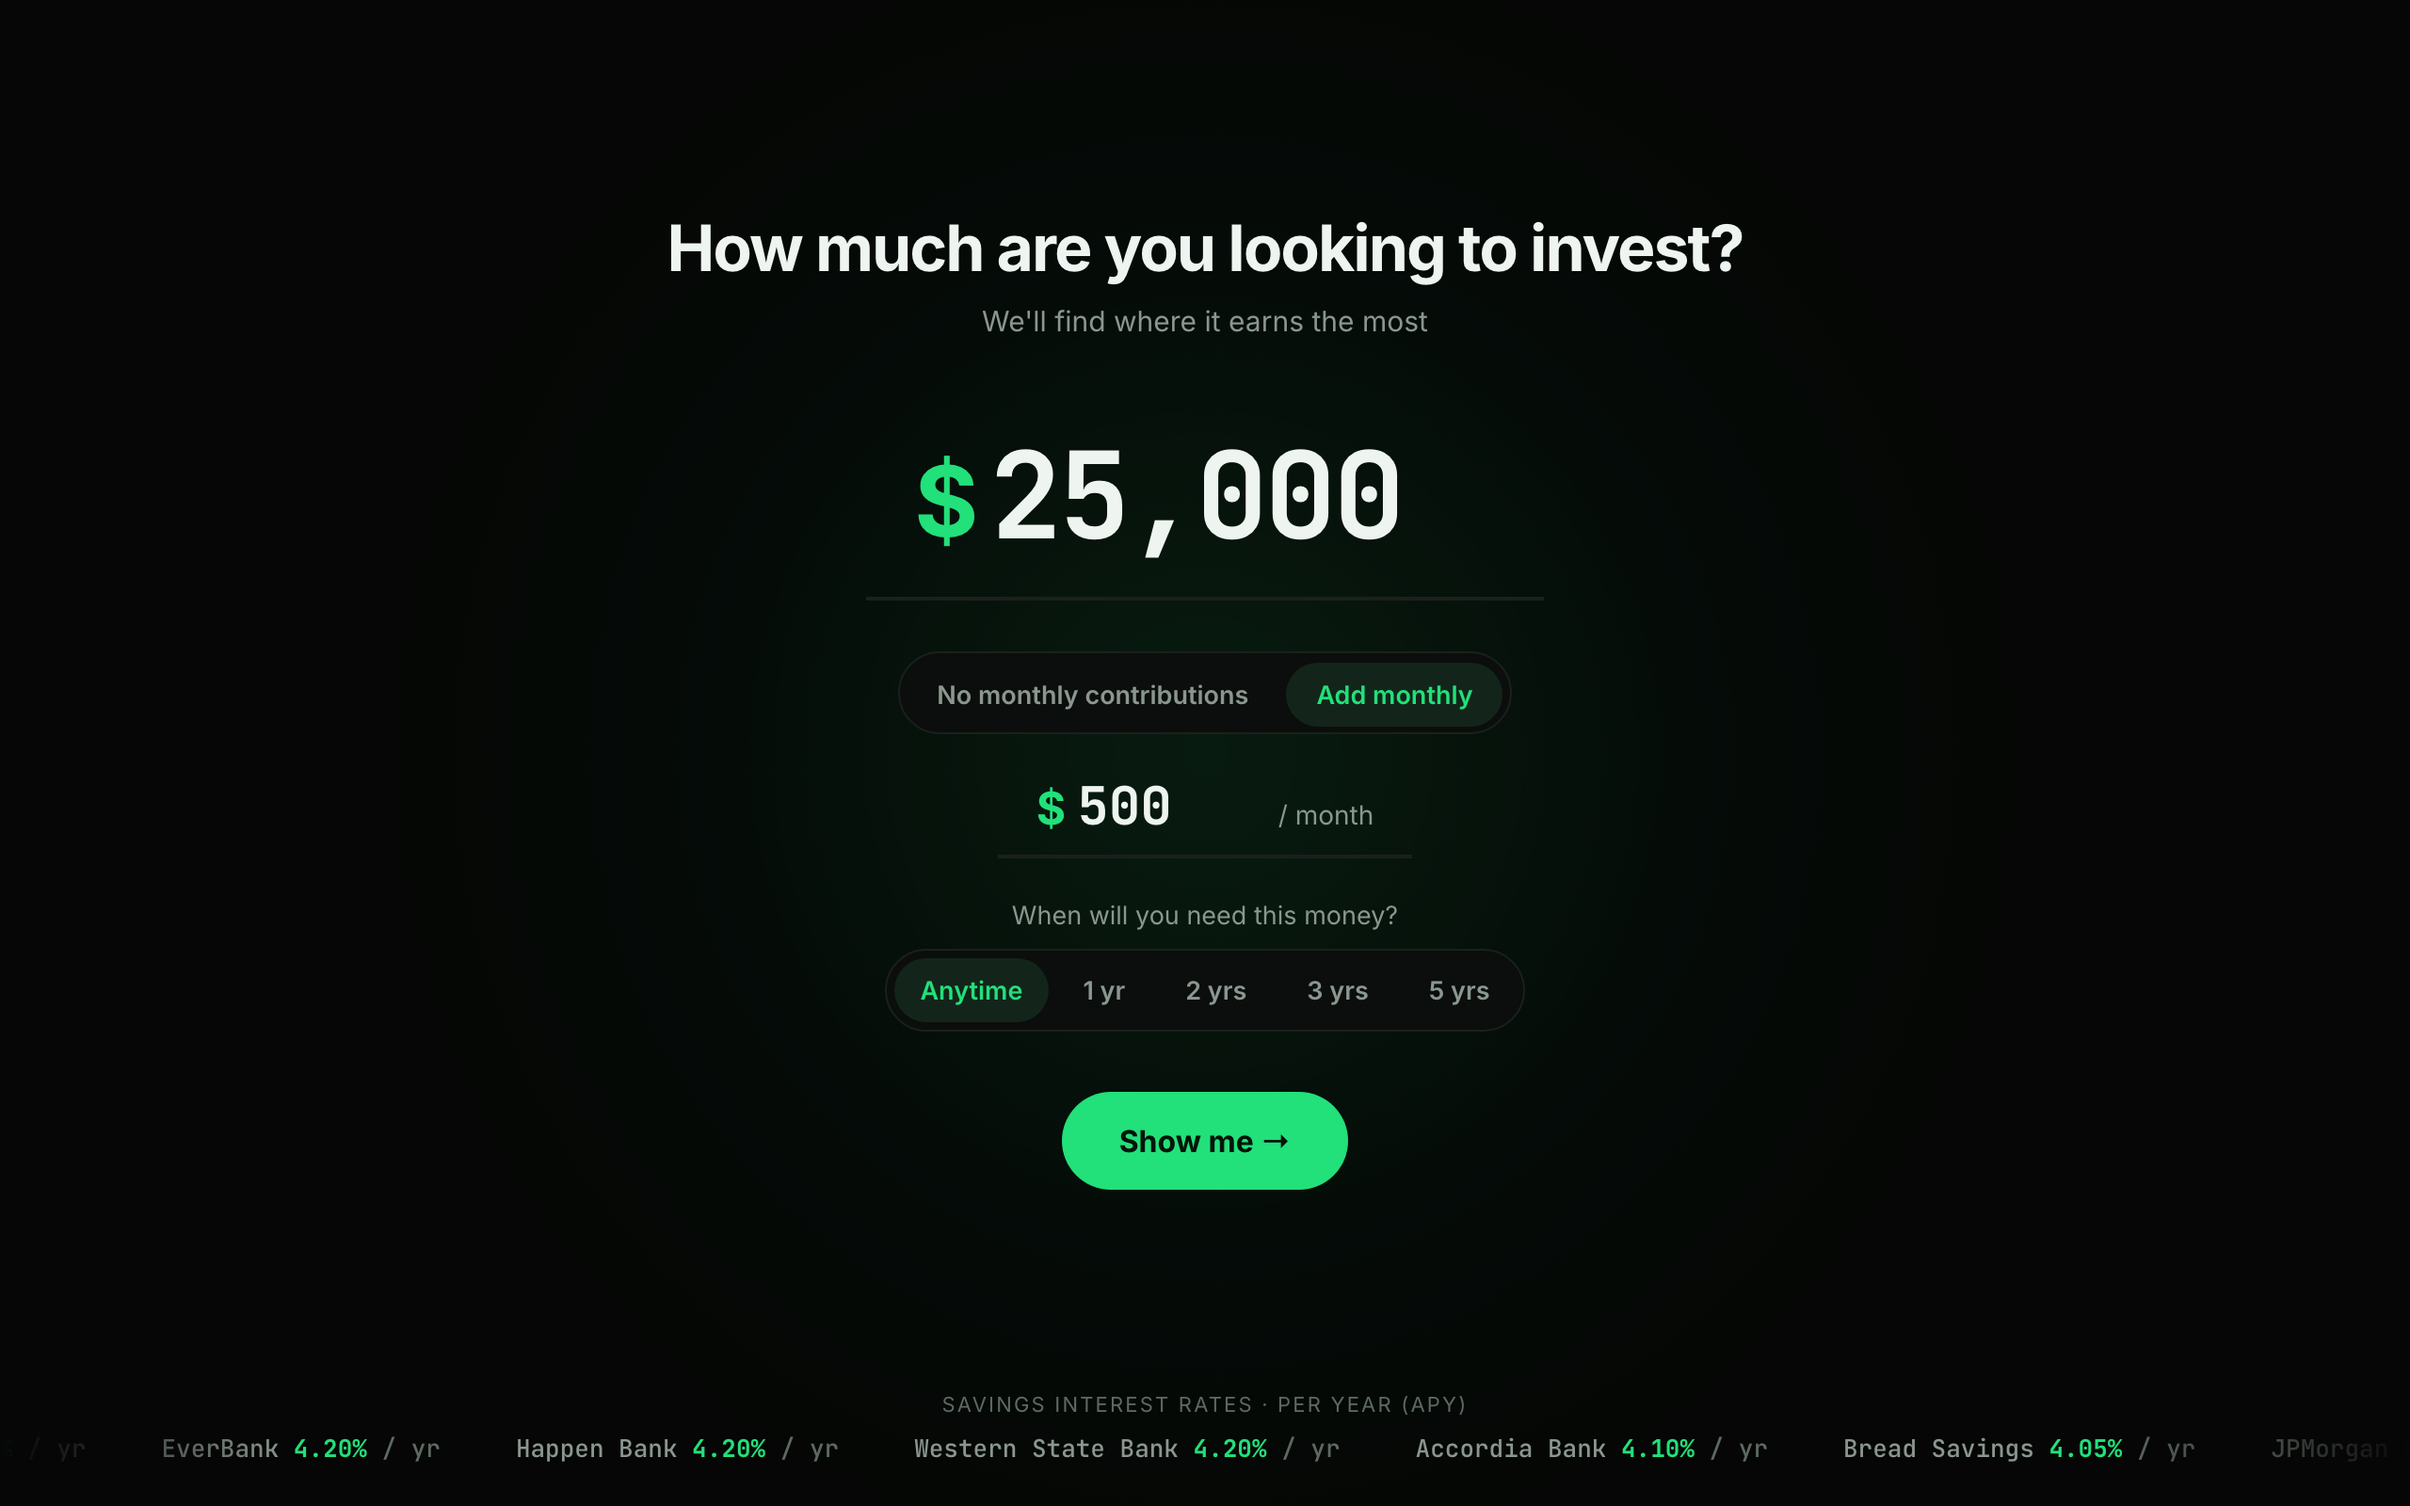
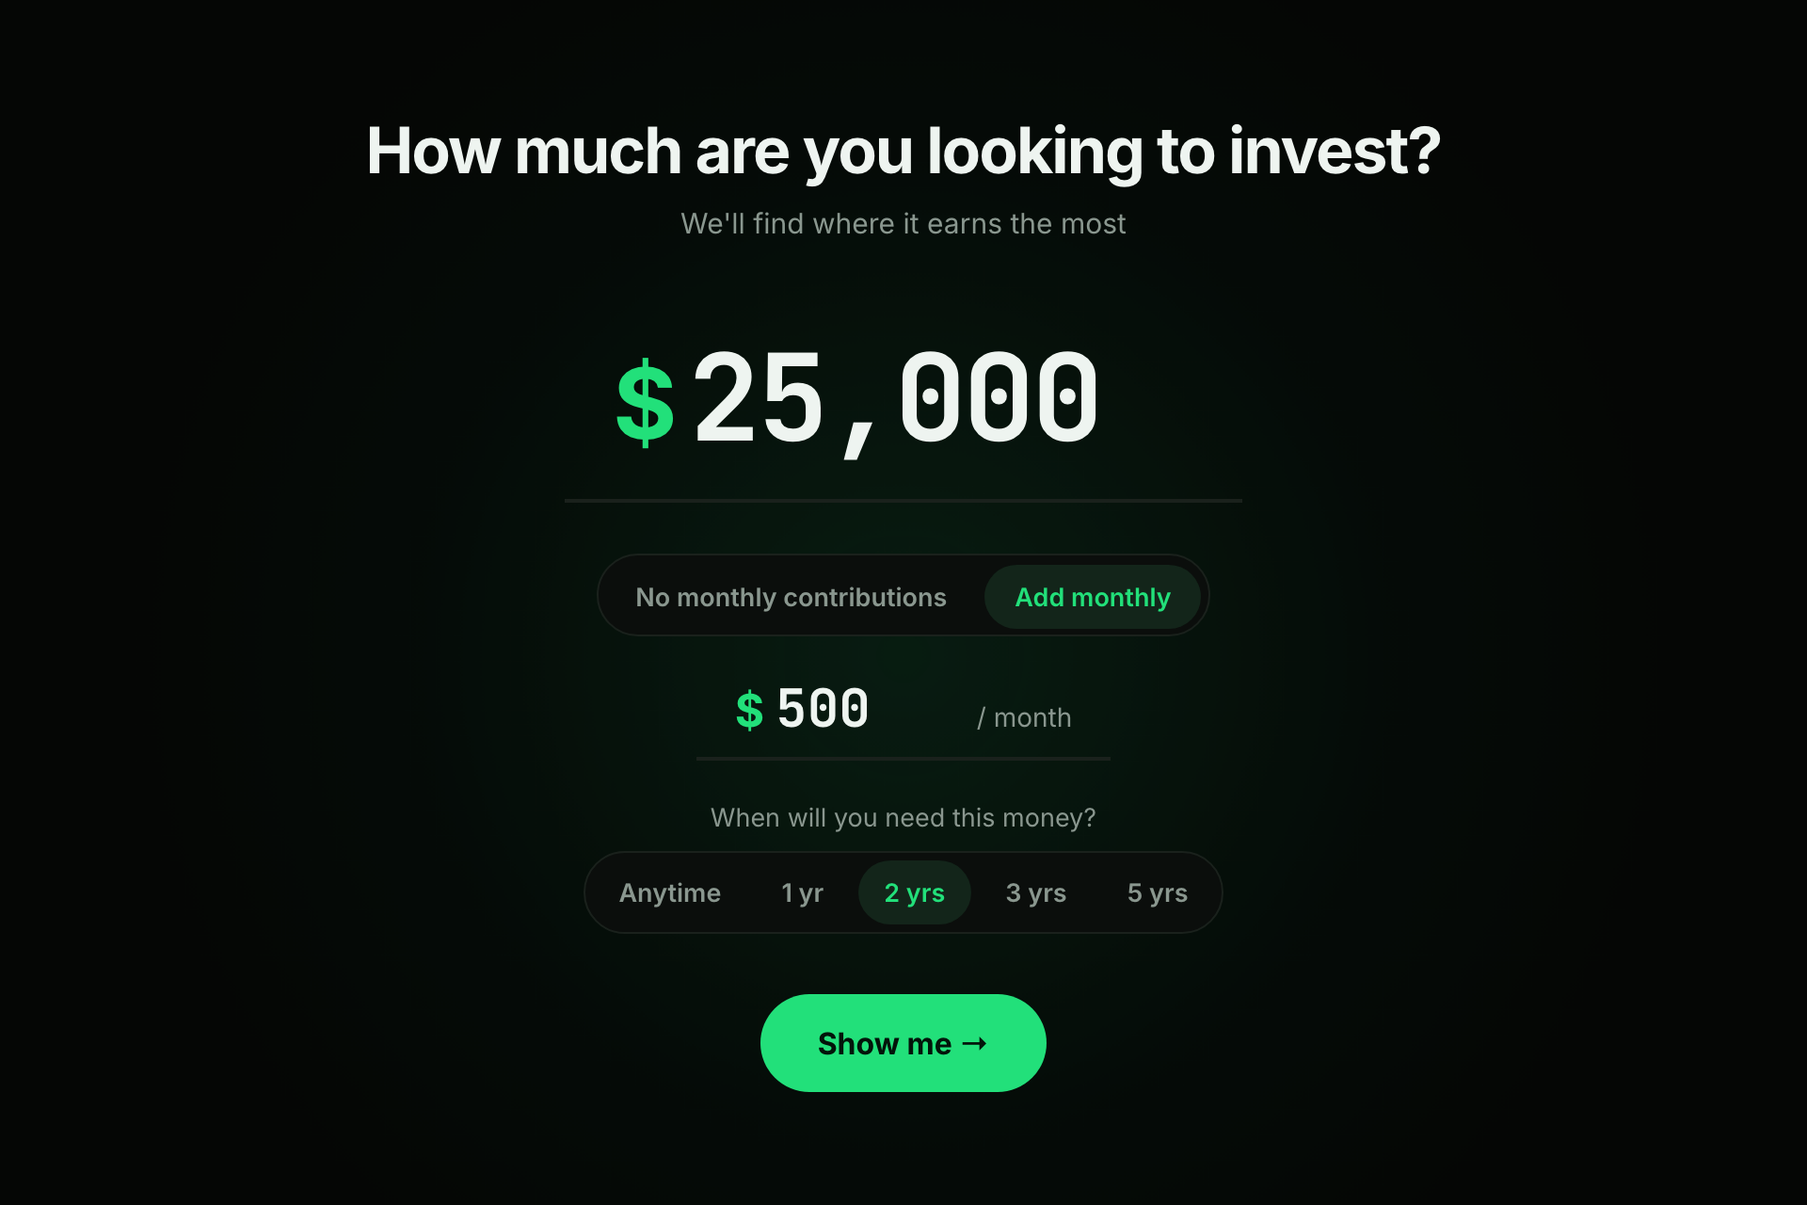
docs: stacked, cropped how-it-works screenshots so they read at full size

diff --git a/README.md b/README.md
@@ -20,10 +20,17 @@ On $25k plus $500 a month, that's $27,285 more after 10 years just from picking 
 
 ## How it works
 
-| 1. Ask | 2. Load | 3. Answer |
-|---|---|---|
-| ![Ask](docs/screenshots/ask.png) | ![Loading](docs/screenshots/loading.png) | ![Timeline answer](docs/screenshots/timeline.png) |
-| How much, monthly adds, when you need it | Pulls the Fed rate and today's bank rates | Where to put it and how much you end up with |
+**1. Ask:** how much, what you add monthly, and when you need it back
+
+<img src="docs/screenshots/ask.png" width="720" alt="Ask screen">
+
+**2. Load:** pulls the Fed rate and today's bank rates, then runs your numbers
+
+<img src="docs/screenshots/loading.png" width="720" alt="Loading screen">
+
+**3. Answer:** the #1 pick with what you'll have, then the runner-ups
+
+<img src="docs/screenshots/timeline.png" width="720" alt="Answer: 2-year Treasury for $25k + $500/mo">
 
 - **Need it anytime:** best high-yield savings account, with promos and minimums accounted for
 - **Need it in 1, 2, 3 or 5 years:** savings vs CDs of that exact length vs the matching Treasury, whichever ends highest wins
